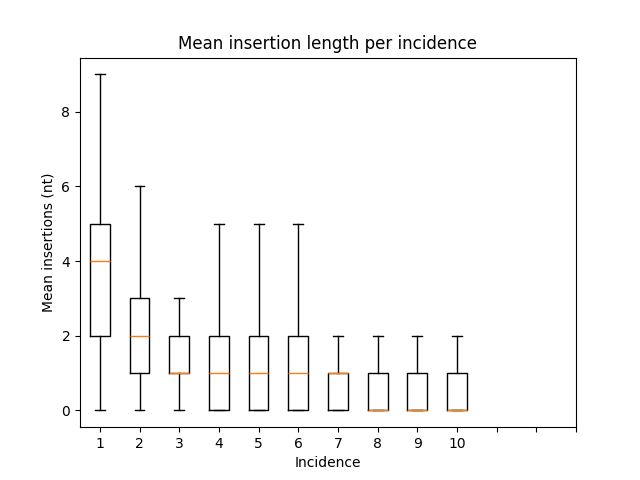
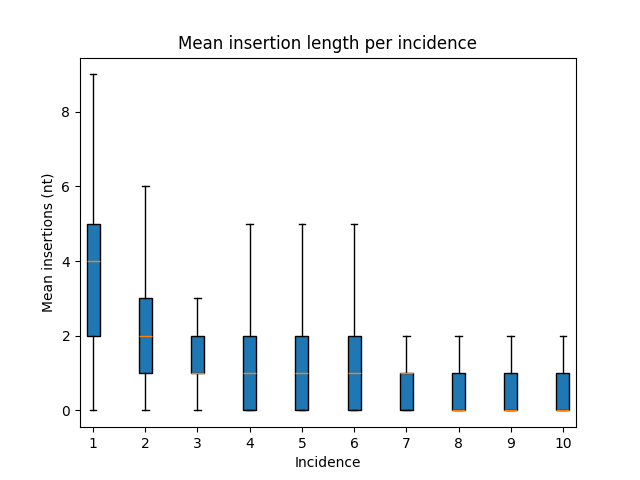
working on the boxplots

diff --git a/code/insertions_per_incidence.py b/code/insertions_per_incidence.py
@@ -33,11 +33,13 @@ if __name__ == '__main__':
         for i in range(1, mice_per_file[files.index(file)] + 1):
             insertions.append([c[4][0] for c in seqs.values() if c[0] == i])
         data.append(insertions)
-    plot_boxplot_per_incidence(data[0], [1, 3, 5, 7, 9, 11, 13, 15, 17, 19, 21, 22, 23], ['Incidence', 'Mean insertions (nt)'],
+    plot_boxplot_per_incidence(data, [1, 2, 3, 4, 5, 6, 7, 8, 9, 10, 11, 12, 13],
+                               [1, 3, 5, 7, 9, 11, 13, 15, 17, 19, 21, 22, 23], ['Incidence', 'Mean insertions (nt)'],
                                'Mean insertion length per incidence',
                                'C:\\Users\\gabev\\PycharmProjects\\MRP_TdTKO_mice\\img'
                                '\\Boxplot_insertion_length_per_incidence_TdTKO.png')
-    plot_boxplot_per_incidence(data[1], [2, 4, 6, 8, 10, 12, 14, 16, 18, 20], ['Incidence', 'Mean insertions (nt)'],
+    plot_boxplot_per_incidence(data[1], [1, 2, 3, 4, 5, 6, 7, 8, 9, 10],
+                               [2, 4, 6, 8, 10, 12, 14, 16, 18, 20], ['Incidence', 'Mean insertions (nt)'],
                                'Mean insertion length per incidence',
                                'C:\\Users\\gabev\\PycharmProjects\\MRP_TdTKO_mice\\img'
                                '\\Boxplot_insertion_length_per_incidence_Normal.png')

diff --git a/code/plots.py b/code/plots.py
@@ -214,9 +214,9 @@ def plot_line_and_scatter_per_incidence(x_points_list, y_points_list, labels, pl
     plt.close()
 
 
-def plot_boxplot_per_incidence(data, labels, plot_labels, title, out):
+def plot_boxplot_per_incidence(data, labels, positions, plot_labels, title, out):
     plt.figure()
-    bplot = plt.boxplot(data, showfliers=False, patch_artist=True, labels=labels)
+    bplot = plt.boxplot(data, showfliers=False, patch_artist=True, positions=positions, labels=labels)
     plt.xlabel(plot_labels[0])
     plt.ylabel(plot_labels[1])
     plt.title(title)
